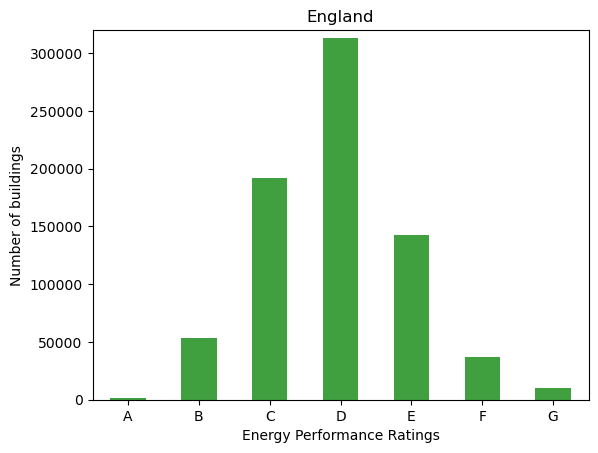
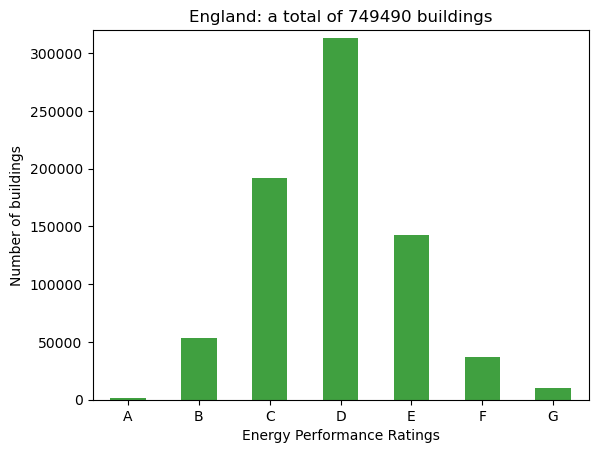
adding total number to plots

Changed region(s): [[0.301, 0.0, 0.8428, 0.0618]]

diff --git a/src/at/uibk/epc/frequency/frequency.py b/src/at/uibk/epc/frequency/frequency.py
@@ -19,11 +19,13 @@ def epcFrequencyForCountry(dbData, country):
     # load list into a panda dataframe
     index = pd.Index(dataFrameList, name="Ratings")
     print(index.value_counts())
+    print("buildings total: " + str(len(dataFrameList)))
 
     # sort by rating levels (label) => sort_index
     pd.DataFrame(index.value_counts()).sort_index(axis=0, ascending=True).plot(kind='bar', color='green',
                                                                                alpha=0.75, rot=0, legend=False)
-    plt.title(country)
+    plt.title(country + ": a total of " +
+              str(len(dataFrameList)) + " buildings")
     plt.xlabel('Energy Performance Ratings')
     plt.ylabel('Number of buildings')
     plt.ylim((0, 320000))
